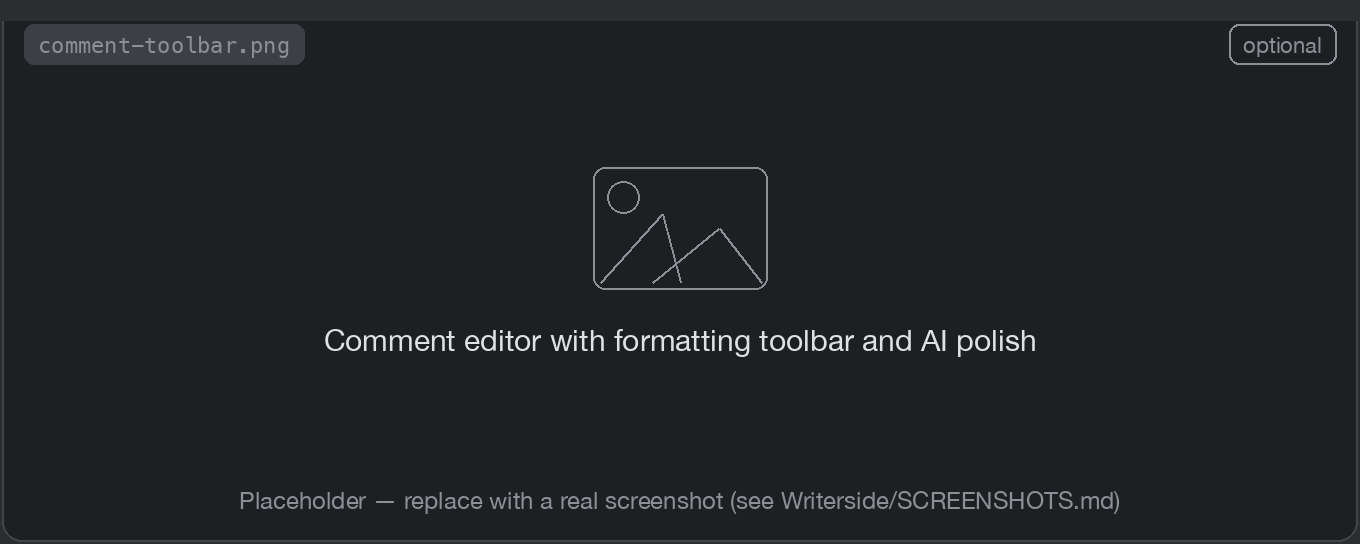
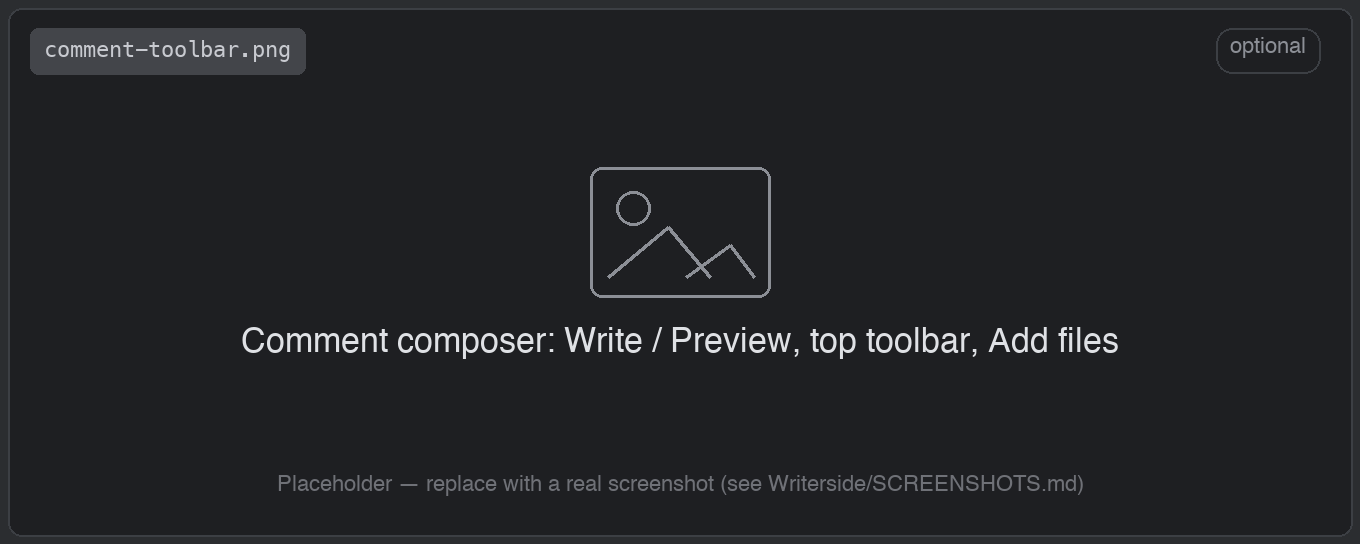
docs: cover post-audit features + fix two doc inaccuracies
New / updated feature coverage (verified against the shipped plugin):
- Discussions & Comments: GitHub-style composer (Write/Preview tabs, top
  toolbar, Add files), the thumbs-up reactions row, and the overflow (⋯)
  menu — Copy link/Markdown, Quote reply, local-only Hide.
- AI Features: the AI summary "Summary settings" gear popup (auto-generate,
  verbosity/formality, personality, customization prompt) and dynamic model
  discovery in the Add/Edit provider dialog.
- Pull Requests: "Go to Pull Requests…" (⌘⇧P, Search Everywhere by default)
  and the Create-PR composer + metadata rows (required/optional reviewers,
  tags, work items, Create / Create Draft split button).
- Code Review: Copy Link to Code (⌘⇧L) and the real inline submit split
  button (Start Review / Add Single Comment / Suggest change).
- Settings: "Show keyboard shortcut on comment buttons" and the Go to Pull
  Requests Search-Everywhere toggle.
- Keyboard Shortcuts: Go to Pull Requests (⌘⇧P) + Copy Link to Code (⌘⇧L).
- Privacy: note the setup-time /v1/models discovery call.

Accuracy fixes:
- Drop the fictional "Mark as read" notification-balloon button (the real
  coalesced action is "Show pull requests").
- Drop the non-existent "Review velocity" chart and regroup the Statistics
  charts to match what actually renders.

Screenshots:
- New placeholders: ai-summary-settings-popup.png, go-to-pr-popup.png.
- Refresh comment-toolbar.png placeholder + SCREENSHOTS.md shot list.

diff --git a/Writerside/topics/Pull-Requests.md b/Writerside/topics/Pull-Requests.md
@@ -47,6 +47,21 @@ Filters persist **per project** across IDE restarts. To clear them, use the Quic
 > **Search** — type in the field above the chips to match PR titles and descriptions. Press <shortcut>⇧ Shift</shortcut> twice to open *Search Everywhere*, where Azure DevOps PRs also appear — selecting one opens it directly.
 > {style="tip"}
 
+### Jump to a specific PR
+
+When you already know which PR you want, skip the list. **Go to Pull Requests…** fuzzy-searches every cached PR — by **id, title, author, or repo** — and opens it straight on its timeline. An empty search lists every cached PR (unread first, then newest).
+
+- Press <shortcut>⌘⇧P</shortcut> / <shortcut>Ctrl+Shift+P</shortcut>.
+- Or use <ui-path>VCS | Go to Pull Requests…</ui-path>.
+- Or run *Find Action* (<shortcut>⌘⇧A</shortcut> / <shortcut>Ctrl+Shift+A</shortcut>) and type **Go to Pull Requests**.
+
+By default it opens a **Pull Requests** tab in the IDE's *Search Everywhere* popup, next to Files, Symbols, and Actions; press <shortcut>↵ Enter</shortcut> to open the highlighted PR.
+
+![The Go to Pull Requests results: the Pull Requests tab in Search Everywhere](go-to-pr-popup.png){ width="560" border-effect="line" }
+
+> Prefer a dedicated dialog? Turn **off** **Show in the Search Everywhere window** in [Settings](Settings.md) and the action opens its own quick-pick popup instead — a search field with a status **funnel** beside it, and <shortcut>↵</shortcut> Open / <shortcut>⎋</shortcut> Close keys.
+> {style="tip"}
+
 ## Read a PR row
 
 Each row packs the status at a glance:
@@ -103,11 +118,24 @@ Right-click any row for quick actions too: **View Pull Request**, **View Pull Re
 
 ## Create a pull request
 
-Click **+** (Create Pull Request) in the tool-window toolbar. The form pre-fills the source branch (your current branch) and the default target branch. Add a title, description, reviewers, and work items — then create it (optionally as a **Draft**).
+Click **+** (Create Pull Request) in the tool-window toolbar. The form pre-fills the source branch (your current branch) and the default target branch.
 
-![Creating a pull request with AI-generated title and description](create-pr-ai.png){ width="640" border-effect="line" }
+![The Create Pull Request form: the Write/Preview description composer and the reviewers, tags, and work-item rows](create-pr-ai.png){ width="640" border-effect="line" }
 
-> With an [AI provider configured](AI-Features.md), the title and description fields gain a **Generate** action that drafts both from your branch's diff.
+The **description** uses the same composer as PR comments: a **Write | Preview** tab strip, with the formatting toolbar above the editor. Type `@`, `#`, or `!` for inline autocomplete of people, work items, and PRs. Press <shortcut>⌘↵</shortcut> / <shortcut>Ctrl+Enter</shortcut> to create.
+
+The metadata block below the description is four inline rows — each with a pencil to edit, and where shown an **X** to clear:
+
+| Row | What you set |
+|-----|--------------|
+| **Required reviewers** | People who must review |
+| **Optional reviewers** | People invited to review |
+| **Tags** | Azure DevOps PR labels — pick existing ones, or use the **+** to create a brand-new tag |
+| **Work items** | Linked Azure Boards work items |
+
+The primary button is a split button: **Create Pull Request**, with **Create Draft Pull Request** on its dropdown.
+
+> With [AI enabled](AI-Features.md), the description composer toolbar gains an AI button (tooltip **Generate title &amp; description with AI**) that drafts the title and description from your branch's commits. If no AI provider is set up yet, clicking it offers to open AI Settings.
 > {style="tip"}
 
 ## Refresh and background sync

diff --git a/Writerside/topics/AI-Features.md b/Writerside/topics/AI-Features.md
@@ -18,8 +18,24 @@ Optional AI helpers: PR summaries, full-diff reviews, code explanations, commit 
 
 ![The AI summary card on a PR timeline](ai-summary-card.png){ width="700" border-effect="line" }
 
-> **Run AI Review** proposes suggestions for you to accept, edit, or dismiss — **nothing is posted to Azure DevOps until you act**. A failed run surfaces a balloon with a one-click **Open AI Settings** jump.
+> **Run AI Review** proposes inline suggestions in the diff. Each one offers **Add to review** — which drops the AI's text into a new-comment editor on that line so you can edit it and queue it as a draft — or **Discard**, which hides it. **Nothing is posted to Azure DevOps until you submit your pending comments.** A failed run surfaces a balloon with a one-click **Open AI Settings** jump.
 > {style="tip"}
+
+### Tune the summary
+
+The **Summary settings** gear in the top-right corner of the **AI summary** card opens a popup that controls how the summary is generated:
+
+| Control | Options |
+|---------|---------|
+| **Generate automatically on open** | Checkbox — off by default. When on, the card drafts a summary as soon as the PR opens. |
+| **Verbosity** | Slider: **Brief** · **Neutral** · **Verbose**. |
+| **Formality tone** | Slider: **Informal** · **Neutral** · **Formal**. |
+| **Personality** | Free-text — an optional persona, e.g. "a slightly sarcastic principal engineer". |
+| **Customization prompt** | Free-text — leave blank to use the default. It's the same override as **Configure Prompts → Pull Request summary** in AI Settings, so edits in either surface stay in sync. |
+
+There's no Save button — edit the controls and dismiss the popup to apply.
+
+![The Summary settings popup off the AI summary card's gear](ai-summary-settings-popup.png){ width="520" border-effect="line" }
 
 ## Configure providers
 
@@ -36,6 +52,9 @@ Each row is one provider instance with a **Provider**, **Model**, and **Enabled*
 | **Gemini** | Google Gemini models. |
 | **Ollama** | Local models — free, no key. |
 | **GitHub Copilot** | Uses your Copilot subscription (CLI only). |
+
+> The **Model** dropdown in the Add/Edit dialog populates itself: it shows a bundled suggested list instantly, then refreshes from a live query to the provider (for example OpenAI and Claude's `/v1/models`) so newly-shipped models appear without a plugin update. The live list is cached for about 30 minutes; it refreshes on every dialog open and whenever you change the family or mode, so there's no manual refresh button. Discovery needs a saved key — until one is entered the dropdown falls back to the suggested list. The field stays editable, so you can always type a model id by hand.
+> {style="note"}
 
 Most families run in one of two **modes**:
 

diff --git a/Writerside/topics/Discussions-and-Comments.md b/Writerside/topics/Discussions-and-Comments.md
@@ -12,9 +12,9 @@ The same threads show up in three places:
 
 ## The comment editor
 
-Every comment editor — timeline, diff inlay, inline edit, and the Create-PR description — shares one markdown toolbar:
+Every comment editor — timeline, diff inlay, inline edit, and the Create-PR description — shares one GitHub-style composer. A **Write | Preview** tab strip sits at the top-left; the formatting toolbar runs along the same top strip, pushed flush-right beside the tabs, with **Polish grammar &amp; spelling with AI** pinned at the far right behind a separator. A muted **Add files** link sits on the bottom row, to the left of the submit buttons.
 
-![The comment editor with its formatting toolbar](comment-toolbar.png){ width="640" border-effect="line" }
+![The comment composer with the Write | Preview tabs and top formatting toolbar strip, and the Add files link on the bottom row beside the submit buttons](comment-toolbar.png){ width="640" border-effect="line" }
 
 | Group | Buttons |
 |-------|---------|
@@ -24,6 +24,8 @@ Every comment editor — timeline, diff inlay, inline edit, and the Create-PR de
 | **AI** | **Polish grammar &amp; spelling with AI** |
 
 In the diff/editor inlays you also get **Insert code suggestion**. Keyboard: <shortcut>⌘B</shortcut> bold, <shortcut>⌘I</shortcut> italic, <shortcut>⌘E</shortcut> inline code, <shortcut>⌘K</shortcut> link, <shortcut>⌘↵</shortcut> submit (or <shortcut>Ctrl</shortcut> equivalents).
+
+Click **Preview** to swap the editor for a rendered view of your markdown — the same rendering a posted comment uses, so what you preview matches what you'll post. The formatting toolbar hides while Preview is showing; click **Write** to return to editing. An empty draft previews as *Nothing to preview*.
 
 > **Polish grammar &amp; spelling with AI** rewrites your draft (or selection) in place as one undoable edit. It needs an [AI provider configured](AI-Features.md); when AI is off, the button is hidden.
 > {style="tip"}
@@ -39,10 +41,13 @@ Click an existing `@mention` to open a small **author card** with the person's a
 
 ## Images and attachments
 
-- **Paste** an image from the clipboard (<shortcut>⌘V</shortcut> / <shortcut>Ctrl+V</shortcut>).
-- **Drag &amp; drop** image files (`png`, `jpg`, `gif`, `webp`, `bmp`, `svg`).
+Three ways to attach an image:
 
-Each upload shows an *Uploading…* placeholder, then becomes an inline markdown image. Right-click a posted image for **Copy Image Link** or **Download Image…**.
+- **Add files** — click the **Add files** link on the bottom row (left of the submit buttons) to pick image files from disk.
+- **Paste** an image from the clipboard (<shortcut>⌘V</shortcut> / <shortcut>Ctrl+V</shortcut>).
+- **Drag &amp; drop** image files onto the editor.
+
+Supported types are `png`, `jpg`, `jpeg`, `gif`, `webp`, `bmp`, and `svg`. Each upload shows an *Uploading…* placeholder, then becomes an inline markdown image. Right-click a posted image for **Copy Image Link** or **Download Image…**.
 
 ## Suggested edits
 
@@ -56,7 +61,8 @@ The thread renders a **Suggested change** card with **Apply Locally** (and **Com
 
 - **Reply** — add a follow-up. Azure DevOps threads are flat; your reply lands at the end of the thread.
 - **Resolve / Reopen** — close a thread when it's done, or reopen it. Resolved threads are de-emphasized and hidden when the diff filter is set to *Show only unresolved*.
-- **Edit / Delete** — on your own comments, via the hover actions in the comment header. Anyone can give a comment a **👍 (Thumbs up)**.
+- **👍 Thumbs up** — a like button on the reactions row below the comment body (shared with **Reply** / **Resolve** on review threads). It shows a count once there's at least one like and turns gold when you've liked; its tooltip toggles between **Thumbs up** and **Remove thumbs up**.
+- **More actions (⋯)** — the overflow menu in the comment header. On any comment: **Copy link**, **Copy Markdown**, and **Quote reply** (inserts the comment as a `>` block quote into this thread's reply editor) plus **Hide** — a local-only collapse that hides the body in place and survives rebuilds and restarts. On your own comments you also get **Edit** and **Delete**.
 
 ### Thread status
 

diff --git a/Writerside/topics/Code-Review.md b/Writerside/topics/Code-Review.md
@@ -29,13 +29,20 @@ In the diff's gutter settings, the **Review Discussions** menu controls which in
 
 <procedure title="Add an inline comment">
     <step>Hover the gutter of a changed line — a <b>+</b> appears. Click it (or drag across line numbers to span a range). You can also press <shortcut>⌘⇧M</shortcut> / <shortcut>Ctrl+Shift+M</shortcut> at the caret.</step>
-    <step>Type your comment. The editor is full markdown with a formatting toolbar, @mentions, and image paste — see <a href="Discussions-and-Comments.md">Discussions &amp; Comments</a>.</step>
-    <step>Post it one of three ways: <b>immediately</b> as a comment, <b>queued</b> as part of a pending review to submit together, or wrapped as a <b>suggested change</b> the author can apply in one click.</step>
+    <step>Type your comment. The composer uses the same GitHub-style chrome as PR discussions — a <b>Write</b> / <b>Preview</b> tab strip with the formatting toolbar on top, plus @mentions and image paste. See <a href="Discussions-and-Comments.md">Discussions &amp; Comments</a> for the editor in full.</step>
+    <step>Post it from the split submit button. The primary action is <b>Start Review</b>, which queues the comment as part of a pending review; its dropdown holds <b>Add Single Comment</b> (post immediately) and <b>Suggest change</b> (wrap the selection as a suggested change the author can apply).</step>
 </procedure>
 
 ![An inline comment open in the diff viewer](diff-comment.png){ width="720" border-effect="line" }
 
 > **Pending review.** Comments you queue stay as drafts (counted on the **Submit (N)** button) until you submit them together with your vote — the same review flow GitHub users expect. Submit from the **Review:** toolbar or the overflow menu's **Submit Pending Comments**.
+> {style="note"}
+
+### Copy a link to code
+
+Right-click a line in the diff viewer — or in your normal editor while reviewing in it — and choose **Copy Link to Code** to copy the Azure DevOps web deep-link to that code (file, line, and column range), the same link the web UI's **Copy link** produces. With text selected, the item reads **Copy Link to Selected Code** and links the exact character span; with no selection it copies a whole-line link at the caret. The shortcut is <shortcut>⌘⇧L</shortcut> / <shortcut>Ctrl+Shift+L</shortcut>.
+
+> The action only appears inside an Azure PR review surface (the diff viewer or the review-in-editor surface) — it stays hidden in ordinary editors.
 > {style="note"}
 
 ## Vote

diff --git a/Writerside/topics/Settings.md b/Writerside/topics/Settings.md
@@ -29,9 +29,20 @@ See [Notifications &amp; Attention](Notifications-and-Attention.md) for what the
 |---------|---------|
 | **Mark files as viewed when their diff is opened** | Off |
 | **Show attention markers on pull-request rows** | Off |
+| **Show keyboard shortcut on comment buttons** | On |
+
+The last toggle shows the submit shortcut (<shortcut>⌘↵</shortcut> / <shortcut>Ctrl+Enter</shortcut>) just before a composer's **Comment** / **Reply** / **Save** button label. The shortcut works either way — this only shows the hint.
 
 > **Show unread markers** isn't here — it's a tool-window toggle (gear menu), not a settings checkbox. Drafts are a list **filter**, not a setting.
 > {style="note"}
+
+### Go to Pull Requests
+
+| Setting | Default |
+|---------|---------|
+| **Show in the Search Everywhere window** | On |
+
+Controls how **Go to Pull Requests** opens. While on, the action adds a **Pull Requests** tab to Search Everywhere (next to Files / Symbols / Actions). Uncheck it to open a standalone quick-pick dialog instead.
 
 ## Version Control → Azure DevOps → AI Settings
 

diff --git a/Writerside/SCREENSHOTS.md b/Writerside/SCREENSHOTS.md
@@ -50,13 +50,15 @@ These carry the most weight — the hero, the two most-misunderstood screens
 | `compare-updates-banner.png` | Code Review | The iteration-scope banner above the changes tree: "Reviewing only what changed since update N" with the **Show all changes** link. |
 | `add-account-menu.png` | Authentication | Settings ▸ Version Control ▸ Azure DevOps with the **+** popup open showing **Log In with Token…** and **Log In via Microsoft…**. |
 | `accounts-panel.png` | Authentication, Settings | The Azure DevOps accounts panel: a signed-in row with avatar, display name, organization URL, and the per-row pencil (edit) and ✕ (remove) icons. |
-| `diff-comment.png` | Code Review | The diff viewer with the **+** gutter affordance and a new-comment inlay open (formatting toolbar + submit options). |
+| `diff-comment.png` | Code Review | The diff viewer with the **+** gutter affordance and a new-comment inlay open: the **Write / Preview** tabs + top toolbar, and the **Start Review** split submit button (dropdown: Add Single Comment, Suggest change). |
 | `mark-file-viewed.png` | Code Review | The changes-tree right-click menu showing **Mark File as Viewed**, next to the tree with some files dimmed as viewed. |
-| `comment-toolbar.png` | Discussions & Comments | A comment editor with the full formatting toolbar, including the **Polish grammar & spelling with AI** button and the suggestion button, with the @mention autocomplete open if possible. |
+| `comment-toolbar.png` | Discussions & Comments | A comment composer showing the **Write / Preview** tab strip at top-left, the formatting toolbar along the same top strip (with **Polish grammar & spelling with AI** pinned far-right), and the muted **Add files** link on the bottom row beside the submit buttons. |
 | `suggestion-block.png` | Discussions & Comments | A **Suggested change** card on a thread with the **Apply Locally** / **Commit…** buttons. |
 | `ai-settings.png` | AI Features, Settings | The **AI Settings** page: the **Enable AI assistance** toggle, the **AI Providers** table, and the **Per-Feature Provider** rows. |
-| `create-pr-ai.png` | Pull Requests, AI Features | The Create-PR form with source/target pre-filled and the AI **Generate** affordance on the title/description. |
+| `create-pr-ai.png` | Pull Requests, AI Features | The Create-PR form: source/target pre-filled, the **Write / Preview** description composer with the AI bulb button in its toolbar, and the Required/Optional reviewers, Tags, and Work items metadata rows. |
 | `attention-row-chips.png` | Notifications & Attention | PR rows showing the coloured attention chips: **Review requested**, **Mentions you**, **Replied**. |
 | `attention-balloon.png` | Notifications & Attention | A lower-right notification balloon for a PR that needs you, with **Open pull request** / **Mark as read**. |
 | `branch-widget-popup.png` | Git Integration, Review in Editor | The main-toolbar Git branch widget popup with the Azure DevOps section: Show in Tool Window, Update Pull Request Branch, Review in Editor. |
 | `marketplace-install.png` | Installation | Settings ▸ Plugins ▸ Marketplace with "Azure DevOps Pull Requests" searched and the **Install** button visible. |
+| `go-to-pr-popup.png` | Pull Requests | **Go to Pull Requests…** (⌘⇧P): the **Pull Requests** tab in *Search Everywhere* with a few results — or, with **Show in the Search Everywhere window** turned off, the standalone quick-pick popup (search field, status funnel, ↵ Open / ⎋ Close footer). |
+| `ai-summary-settings-popup.png` | AI Features | The **Summary settings** popup off the AI summary card's gear: the *Generate automatically on open* checkbox, the **Verbosity** and **Formality tone** sliders, and the **Personality** / **Customization prompt** fields. |

diff --git a/Writerside/topics/Statistics.md b/Writerside/topics/Statistics.md
@@ -30,9 +30,9 @@ A row of headline numbers across the top:
 
 The charts are grouped into three sections:
 
-- **Workload** — *Top creators*, *Top reviewers*, *Top commenters*, *Open PR aging*.
-- **Process health** — *Vote distribution*, *PR status*, *Time to merge*, *PR cycle time (days)*, *Review velocity*.
-- **Where work goes** — *Target branches*, *Daily activity*, *Day-of-week activity*, *PRs merged per week*, *Reviewer × Author* collaboration.
+- **Workload** — *Top creators*, *Top reviewers*, *Top commenters*, *Reviewer × Author* collaboration.
+- **Process health** — *Vote distribution*, *Time to merge*, *PR status*, *Open PR aging*, *PR cycle time (days)*, *PRs merged per week*.
+- **Where work goes** — *Target branches*, *Day-of-week activity*, *Daily activity*.
 
 ## Filter and scope
 

diff --git a/Writerside/topics/Keyboard-Shortcuts.md b/Writerside/topics/Keyboard-Shortcuts.md
@@ -7,6 +7,7 @@ Every action the plugin contributes, grouped by surface. To rebind any of them, 
 | Action | macOS | Windows / Linux | Action ID |
 |--------|-------|------------------|-----------|
 | **Add Review Comment** | <shortcut>⌘⇧M</shortcut> | <shortcut>Ctrl+Shift+M</shortcut> | `AzureDevOps.PullRequest.AddCommentAtCursor` |
+| **Copy Link to Code** | <shortcut>⌘⇧L</shortcut> | <shortcut>Ctrl+Shift+L</shortcut> | `AzureDevOps.PullRequest.CopyCodeLink` |
 
 Only fires when the caret is on a changed line of a file in an open PR. See [Review in Editor](Review-in-Editor.md).
 
@@ -16,6 +17,7 @@ Only fires when the caret is on a changed line of a file in an open PR. See [Rev
 |--------|-------|------------------|-----------|
 | **Mark File as Viewed** | <shortcut>⌘⇧S</shortcut> | <shortcut>Ctrl+Shift+S</shortcut> | `AzureDevOps.PullRequest.MarkFileAsViewed` |
 | **Add Review Comment** | <shortcut>⌘⇧M</shortcut> | <shortcut>Ctrl+Shift+M</shortcut> | `AzureDevOps.PullRequest.AddCommentAtCursor` |
+| **Copy Link to Code** | <shortcut>⌘⇧L</shortcut> | <shortcut>Ctrl+Shift+L</shortcut> | `AzureDevOps.PullRequest.CopyCodeLink` |
 | Next / previous changed range | <shortcut>F7</shortcut> / <shortcut>⇧F7</shortcut> | <shortcut>F7</shortcut> / <shortcut>Shift+F7</shortcut> | *built-in IntelliJ diff* |
 
 ## In the PR list, timeline, and detail view
@@ -40,6 +42,7 @@ Only fires when the caret is on a changed line of a file in an open PR. See [Rev
 | **Open Current Branch PR** | *no default* | `AzureDevOps.OpenCurrentBranchPr` |
 | **Update Pull Request Branch** | *no default* | `AzureDevOps.Pull.Request.Branch.Update` |
 | **Review in Editor** | *no default* | `AzureDevOps.Pull.Request.Review.In.Editor.Toggle` |
+| **Go to Pull Requests…** | <shortcut>⌘⇧P</shortcut> / <shortcut>Ctrl+Shift+P</shortcut> | `AzureDevOps.PullRequest.GoTo` |
 
 ## AI actions
 

diff --git a/Writerside/topics/Privacy-and-Data.md b/Writerside/topics/Privacy-and-Data.md
@@ -28,6 +28,9 @@ Calls are made when:
 
 Only when AI is **enabled** and a provider is configured. The plugin makes outbound calls only for the action you triggered.
 
+> When you add or edit an AI provider, the plugin makes one authenticated **model-list** request (e.g. `GET /v1/models`) to that provider using its API key, to populate the model dropdowns. This is the only AI request that fires at setup time rather than on an action you triggered. No PR code, diff, or prompt is sent — just the models-list call — and the result is cached for about 30 minutes. Local providers (Ollama at a localhost address) keep this on your machine.
+> {style="note"}
+
 ### Per-feature data flow
 
 | Feature                | What the provider sees                                                                                          |

diff --git a/Writerside/topics/Notifications-and-Attention.md b/Writerside/topics/Notifications-and-Attention.md
@@ -16,7 +16,7 @@ You can be notified about:
 - A **reviewer vote change** on a PR you authored.
 - A chance to **Create a PR** right after you push a branch.
 
-A single event opens straight to the PR (**Open pull request**); several at once coalesce into one balloon (*"N pull requests need your review"*) that opens the tool window. Dismiss with **Mark as read**.
+A single event opens straight to the PR — **Open pull request** for a review request or vote change, **View comment** for a mention or reply (it lands on the exact comment). Several at once coalesce into one balloon (*"N pull requests need your review"*) whose **Show pull requests** action opens the tool window. Balloons dismiss themselves once you act or after a moment — there's no button to click to clear them.
 
 ## The tool-window badge
 